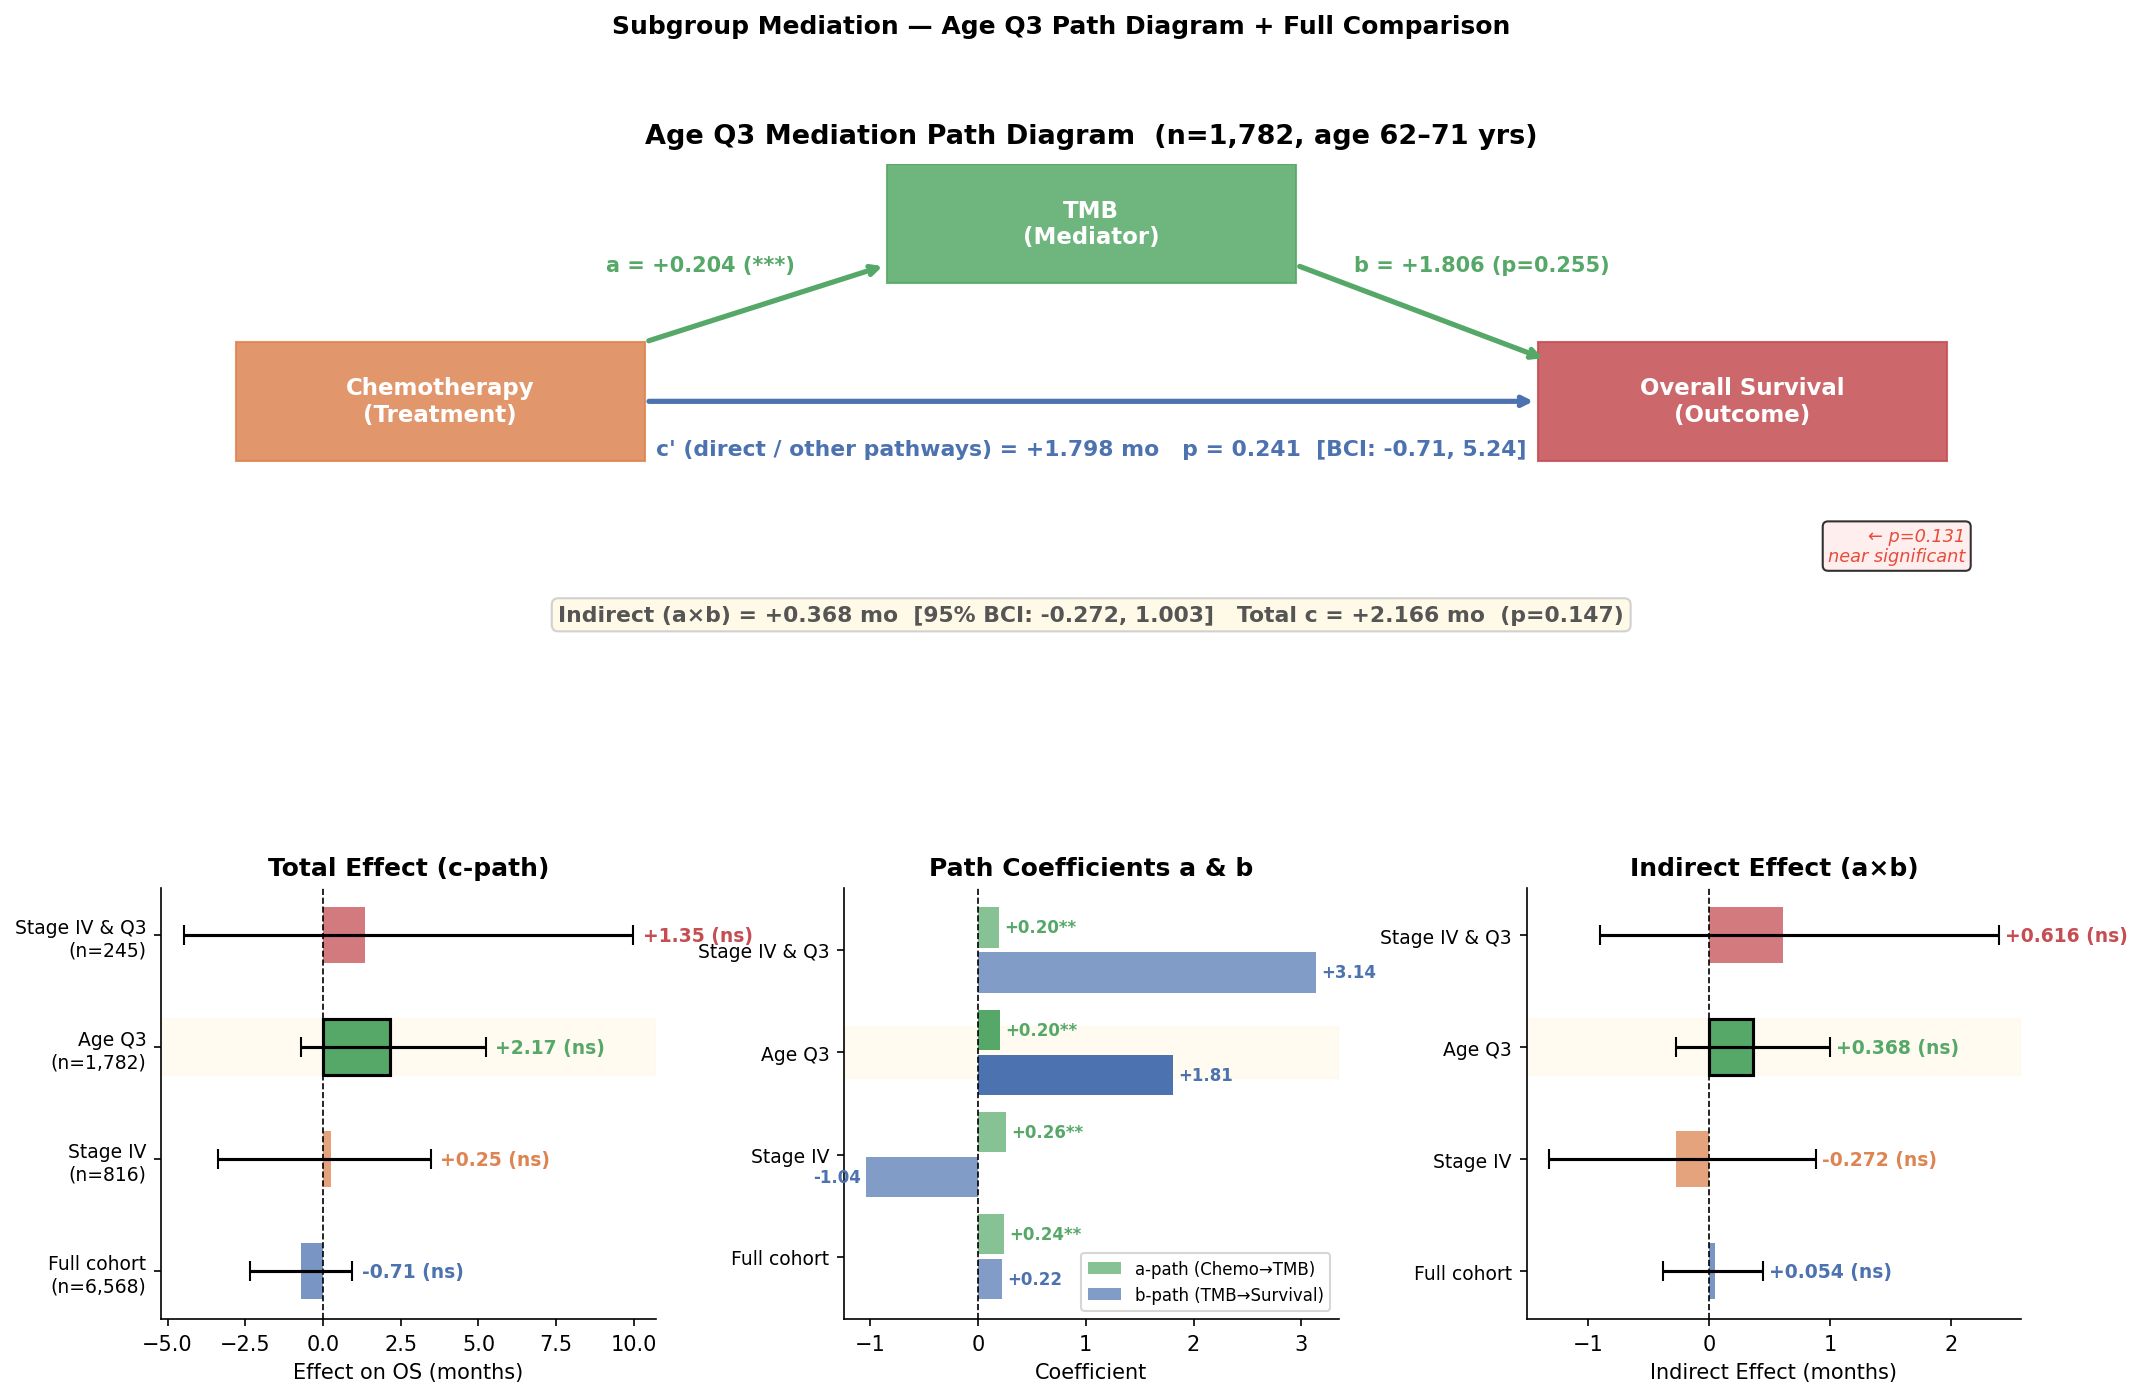
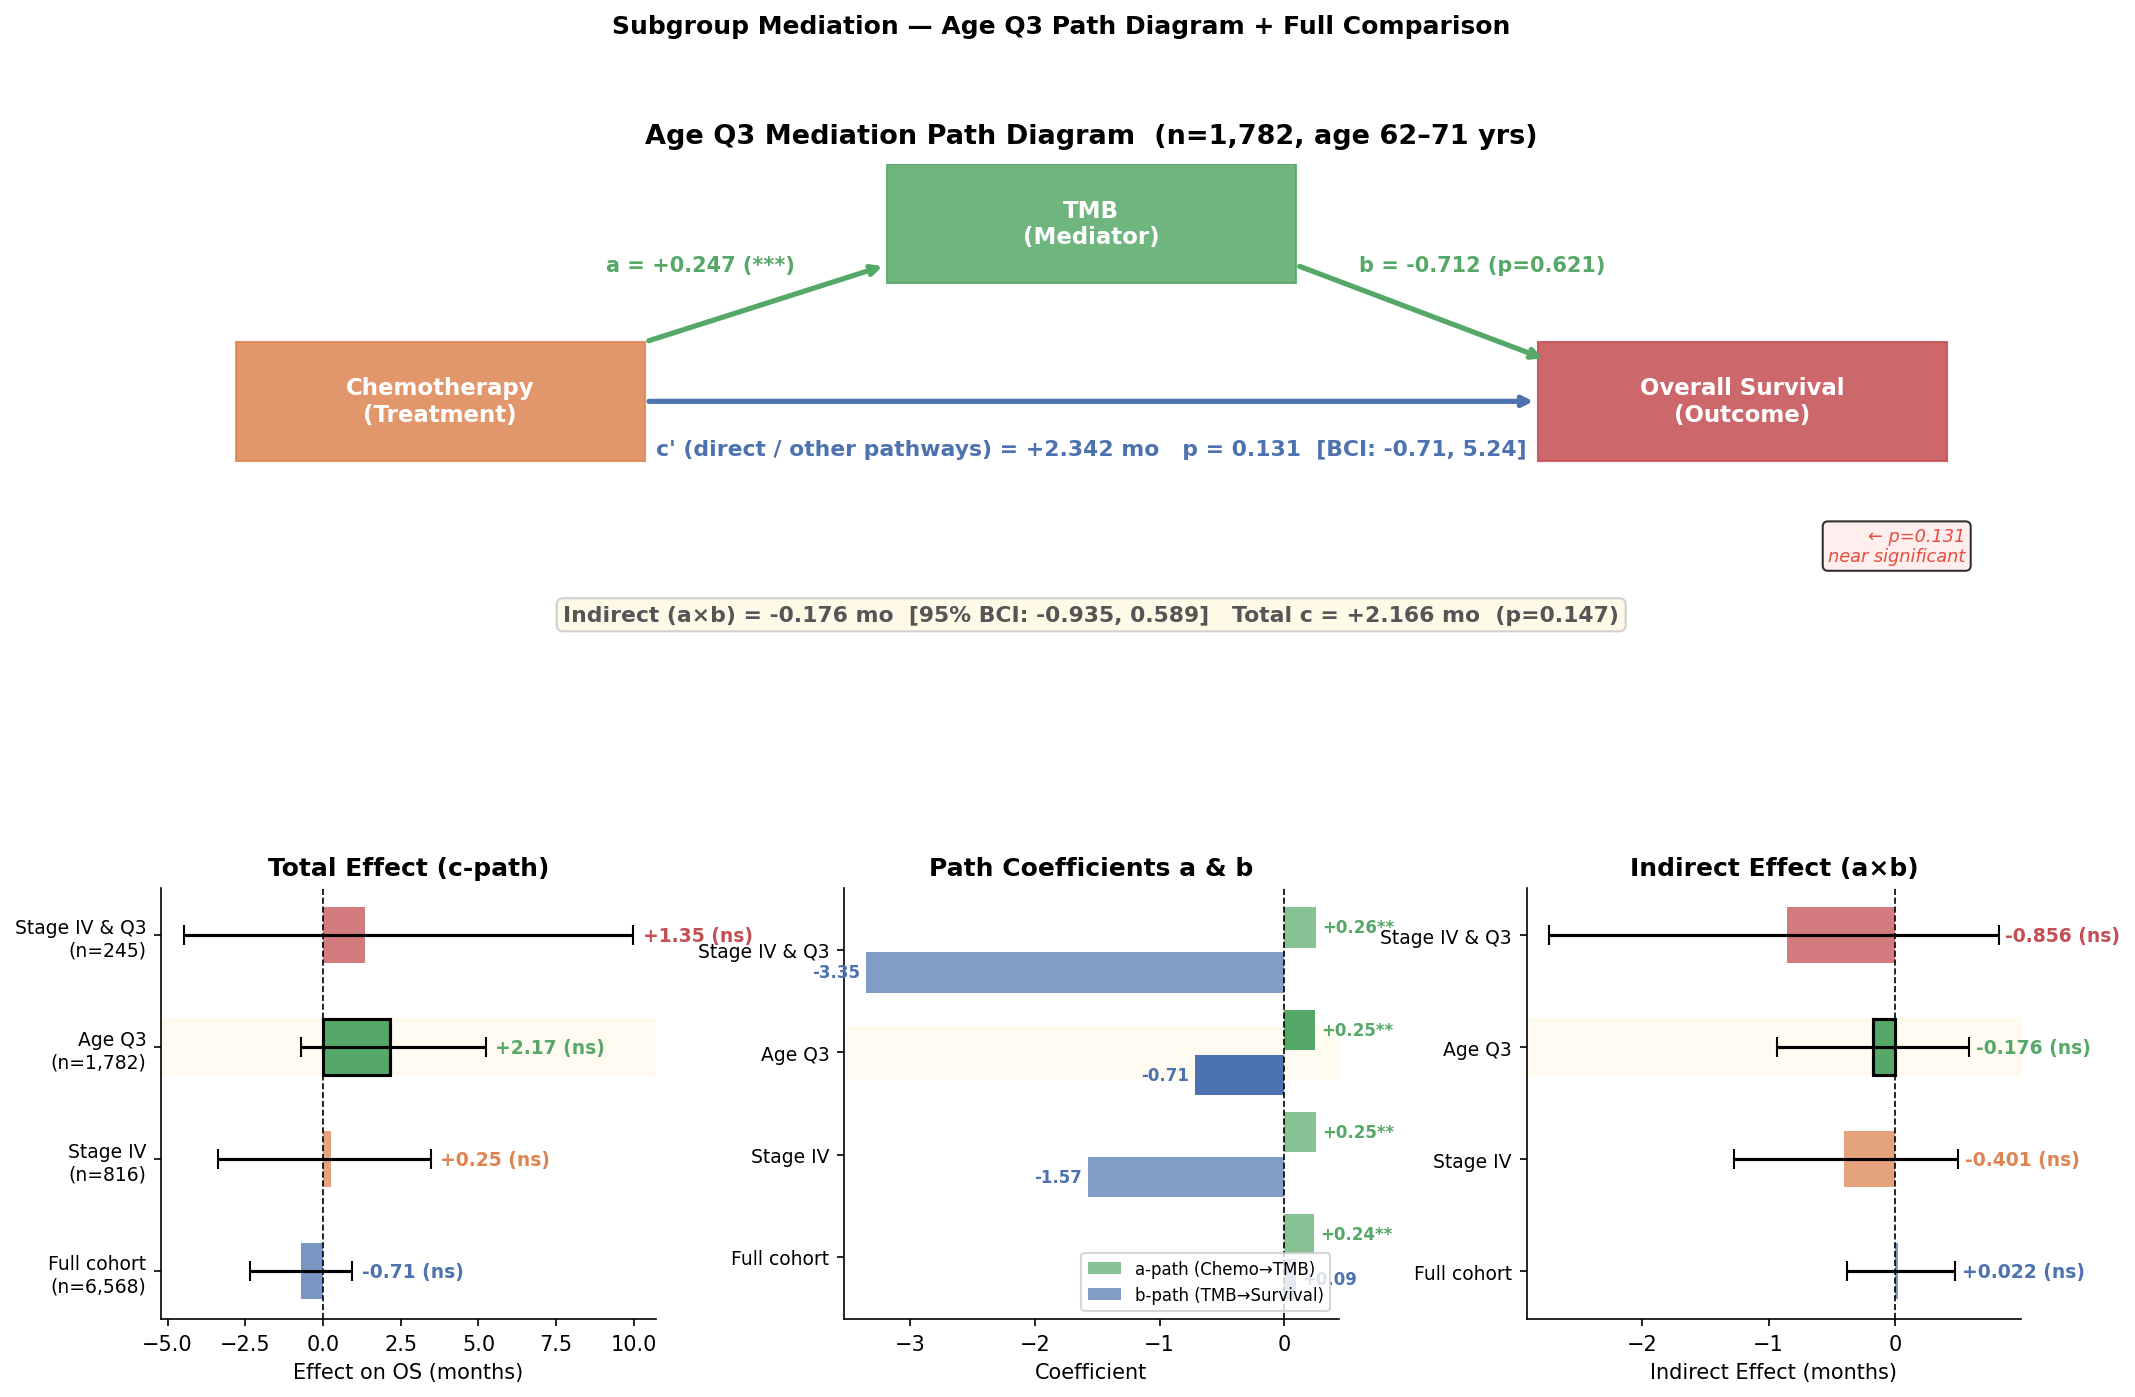
clean up README narrative and references

diff --git a/README.md b/README.md
@@ -6,7 +6,7 @@
 
 > **Question**: Does chemotherapy causally improve survival — and how much of that benefit is mediated through tumour mutation burden (TMB)?
 
-Eight Jupyter notebooks apply complementary causal inference methods to **6,568 real patients** from the TCGA Pan-Cancer Atlas 2018.
+Nine Jupyter notebooks apply complementary causal inference methods to **6,568 real patients** from the TCGA Pan-Cancer Atlas 2018.
 
 ![Causal inference vs naive association](docs/causal_illustration.png)
 
@@ -42,16 +42,20 @@ This flags Age Q3 as the subgroup to interrogate further: *why* do they benefit,
 
 ---
 
-### Step 3 — Is the survival benefit of chemotherapy in the elderly subgroup mediated through TMB?
+### Step 3 — Is the survival benefit of chemotherapy in Age Q3 mediated through TMB?
 
-![Subgroup mediation: Age Q3 path diagram and full comparison](results/figures/08_subgroup_mediation.png)
+![Age Q3 mediation path diagram](results/figures/08_ageq3_path_diagram.png)
 
-Armed with the subgroup identified in Step 2, we re-run mediation analysis restricted to Age Q3. **Top**: mediation path diagram for Age Q3 patients (aged ~57-70). **Bottom**: all four age-quartile subgroups (Q1-Q4) side by side.
+Mediation path diagram for the Age Q3 subgroup (n=1,782, age 62–71 yrs), pre-specified by the Causal Forest in Step 2.
 
-Three things stand out:
-- **Full cohort total effect is slightly negative** — not because chemo harms, but because the most advanced patients (who get more chemo) also have worse baseline prognosis. This is **indication bias** in plain sight.
-- **Age Q3 total effect flips to +2.17 months (p = 0.13)** — near-significant, with a confidence interval almost entirely positive. Because the subgroup was pre-specified by the causal forest in Step 2, this is not data dredging.
-- **The a-path (chemo → TMB) is significant in every subgroup** (marked `**`), but the b-path (TMB → survival) is not — the TMB pathway is broken. Chemo's benefit in Age Q3 operates through other mechanisms; the straight blue arrow represents *any* pathway, not a specific one.
+Three key numbers:
+- **a = +0.247 (\*\*\*)** — chemo robustly raises TMB (confirmed pathway)
+- **b = −0.712 (p=0.621)** — TMB→survival association is **not significant**; TMB does not mediate the benefit
+- **Total c = +2.166 mo (p=0.147)** — near-significant total benefit; the BCI [−0.71, 5.24] is mostly positive
+
+The indirect effect (a×b = −0.176 mo) is negligible relative to the direct effect (c' = +2.342 mo), suggesting most of chemo's benefit in Age Q3 operates through pathways other than TMB — direct cytotoxicity, immune activation, or unmeasured mechanisms. Full subgroup comparison across all four groups is in NB08.
+
+> ⚠️ **Synthetic TMB disclaimer**: Real TMB values are not available in the TCGA clinical files used here. TMB is simulated from a biologically motivated but artificial model (`shape = 2.5 + 0.8 × CHEMO`). The a-path significance is therefore **built into the simulation by design**, and the b-path result (b ≈ 0) reflects the absence of any TMB→OS link in the data-generating process — not a real biological finding. These results demonstrate the **methodology** only. Conclusions about TMB as a mediator require real mutation burden data.
 
 ---
 
@@ -66,7 +70,7 @@ git clone --no-checkout --depth 1 --filter=blob:none \
     https://github.com/cBioPortal/datahub.git ../datahub
 cd ../datahub && git sparse-checkout init --cone
 git sparse-checkout set $(git ls-tree HEAD public/ | grep pan_can_atlas | awk '{print $4}' | tr '\n' ' ')
-git checkout && cd ../causal_inference_oncology
+git checkout && cd -
 python src/fetch_lfs_clinical.py && python src/build_real_dataset.py
 
 # 2b. Offline alternative
@@ -95,7 +99,7 @@ Full data setup details → [`docs/data_guide.md`](docs/data_guide.md)
 | 05 | Instrumental Variables | Does the result hold even against *unmeasured* confounders? | `05_iv_vs_ols.png` |
 | 06 | Sensitivity Analysis | How much hidden bias would overturn the conclusion? | `06_evalue.png` |
 | 07 | Heterogeneous Treatment Effects | Does chemo benefit all patients equally — or only certain subgroups? | `07_cate_distribution.png` |
-| 08 | Subgroup Mediation | In the high-benefit subgroup identified by NB07, does TMB mediate the effect? | `08_subgroup_mediation.png` |
+| 08 | Subgroup Mediation | In the high-benefit subgroup identified by NB07, does TMB mediate the effect? | `08_ageq3_path_diagram.png` |
 
 Read notebooks in order — each builds on the previous.
 Figure-by-figure interpretation → [`docs/figures_guide.md`](docs/figures_guide.md)
@@ -128,8 +132,8 @@ Full variable definitions, limitations, rebuild instructions → [`docs/data_gui
 
 ```
 causal_inference_oncology/
-├── notebooks/          # 01–06 in order
-├── results/figures/    # 20 generated figures
+├── notebooks/          # 00–08 in order
+├── results/figures/    # 34 generated figures
 ├── docs/               # concepts, data guide, figures guide
 ├── data/processed/     # parquet cache (gitignored — rebuild locally)
 ├── src/